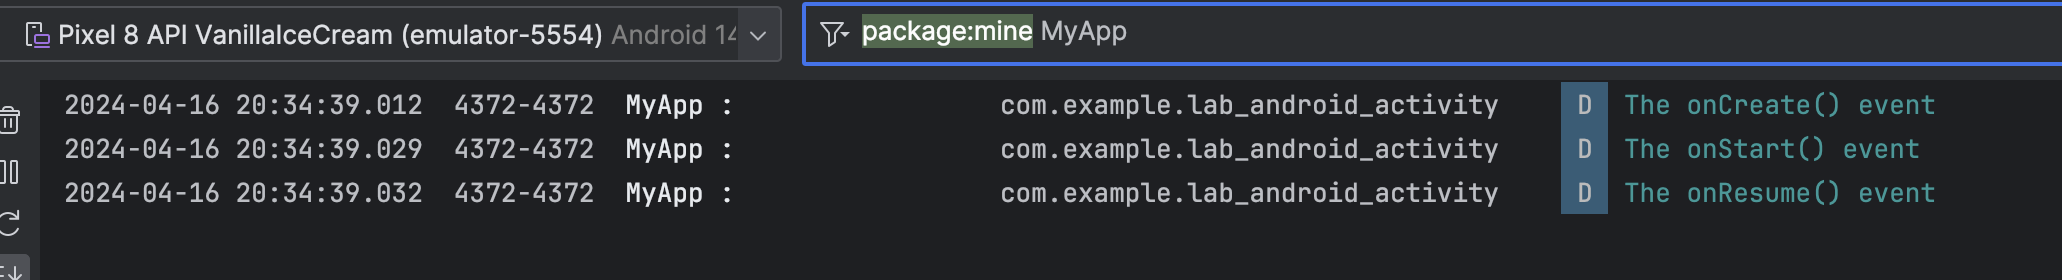
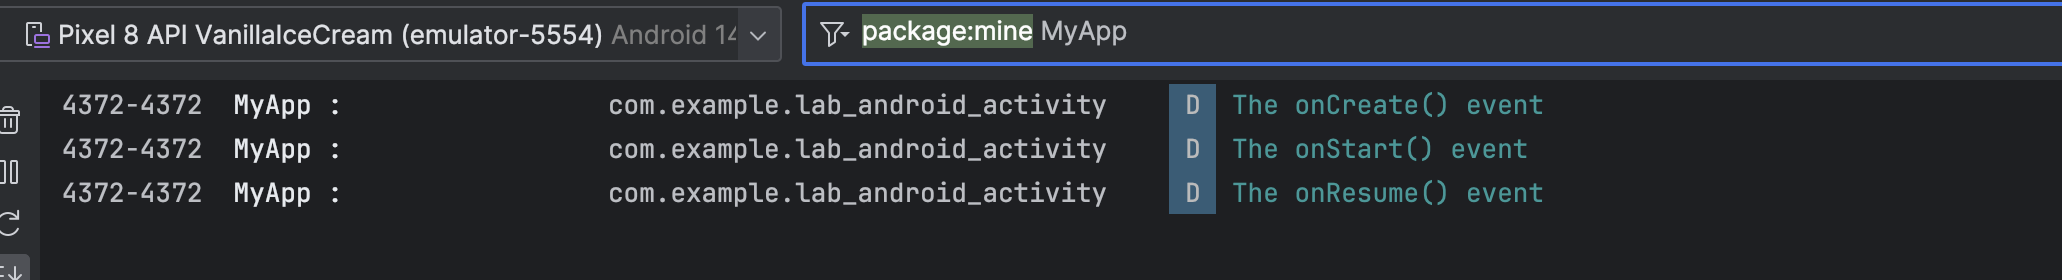
Week 5: crop the dates out of the Activity 1 Logcat screenshot
Claude-Session: https://claude.ai/code/session_017JwhcT43Ghe9mjjqScnQW5

Changed region(s): [[0.031, 0.2857, 0.9622, 0.7714]]

diff --git a/week5/index.html b/week5/index.html
@@ -55,7 +55,7 @@
 <p>Yellow lines are the ones you add. Grey italic lines stand for code that is already there.</p></li>
 <li>Run the app.</li>
 <li>Open the <strong>Logcat</strong> window and filter the logs by our log label: type <code>MyApp</code> in the filter box. You will see the following:
-<figure><img src="assets/img/fig02.png" alt="Screenshot" width="620" loading="lazy"></figure></li>
+<figure><img src="assets/img/fig02.png?v=2" alt="Screenshot" width="620" loading="lazy"></figure></li>
 <li>These methods are called when the app is first starting up. The order is <code>onCreate()</code> → <code>onStart()</code> → <code>onResume()</code>.</li>
 <li>Now hide the app in the background with the swipe-up gesture. Take a look at the Logcat to answer the questions below.</li>
 </ol>
